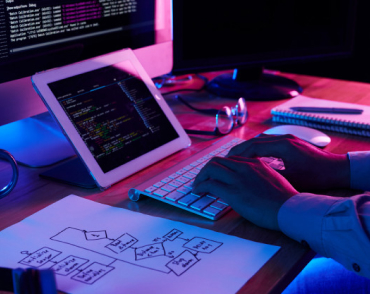
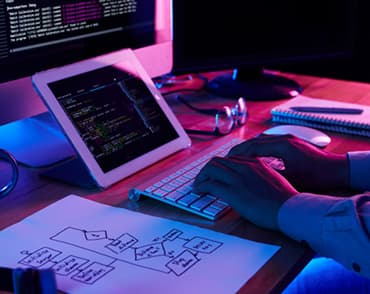
оптимізувала зображення та добавила тіні

diff --git a/portfolio.html b/portfolio.html
@@ -63,7 +63,7 @@
     <ul class="carts-list">
         <li class="carts-item">
 
-            <img src="./image/img.png" alt="ноутбук" width="370" height="294" class="carts-image">
+            <img src="./image/Img-laptop.jpg" alt="ноутбук" width="370" height="294" class="carts-image">
             <div class="carts-block">
             <h2  class="main-title">Технокряк</h2>
             <p class="portfolio-text">Веб-сайт</p>
@@ -71,7 +71,7 @@
         </li>
         <li class="carts-item">
      
-            <img src="./image/img(1).png" alt="баскетболісти" width="370" height="294"  class="carts-image">
+            <img src="./image/Basketball.jpg" alt="баскетболісти" width="370" height="294"  class="carts-image">
             <div class="carts-block">
             <h2  class="main-title">Постер New Orlean vs Golden Star</h2>
             <p class="portfolio-text">Дизайн</p>
@@ -79,7 +79,7 @@
         </li>
         <li class="carts-item">
    
-            <img src="./image/img(2).png" alt="логотип ресторану" width="370" height="294"  class="carts-image">
+            <img src="./image/Restaurant-logo.jpg" alt="логотип ресторану" width="370" height="294"  class="carts-image">
             <div class="carts-block">
             <h2  class="main-title">Ресторан Seafood</h2>
             <p class="portfolio-text">Додаток</p>
@@ -87,14 +87,14 @@
         </li>
         <li class="carts-item">
             
-            <img src="./image/img(3).png" alt="навушники" width="370" height="294"  class="carts-image">
+            <img src="./image/Headphones.jpg" alt="навушники" width="370" height="294"  class="carts-image">
             <div class="carts-block">
             <h2  class="main-title">Проєкт Prime</h2>
             <p class="portfolio-text">Маркетинг</p>
         </div>
         </li>
         <li class="carts-item">
-            <img src="./image/img(4).png" alt="коробки" width="370" height="294"  class="carts-image">
+            <img src="./image/Boxes.jpg" alt="коробки" width="370" height="294"  class="carts-image">
             <div class="carts-block">
             <h2  class="main-title">Проєкт Boxes</h2>
             <p class="portfolio-text">Додаток</p>
@@ -102,7 +102,7 @@
         </li>
         <li class="carts-item">
            
-            <img src="./image/img(5).png" alt="комп'ютер" width="370" height="294"  class="carts-image">
+            <img src="./image/Computer.jpg" alt="комп'ютер" width="370" height="294"  class="carts-image">
             <div class="carts-block">
             <h2  class="main-title">Inspiration has no Borders</h2>
             <p class="portfolio-text">Веб-сайт</p>
@@ -110,7 +110,7 @@
         </li>
         <li class="carts-item">
           
-            <img src="./image/img(6).png" alt="книга" width="370" height="294"  class="carts-image">
+            <img src="./image/Book.jpg" alt="книга" width="370" height="294"  class="carts-image">
             <div class="carts-block">
             <h2  class="main-title">Видання Limited Edition</h2>
             <p class="portfolio-text">Дизайн</p>
@@ -118,7 +118,7 @@
         </li>
         <li class="carts-item">
            
-            <img src="./image/img(7).png" alt="етикетка" width="370" height="294"  class="carts-image">
+            <img src="./image/Label.jpg" alt="етикетка" width="370" height="294"  class="carts-image">
             <div class="carts-block">
             <h2  class="main-title">Проєкт LAB</h2>
            <p class="portfolio-text">Маркетинг</p>
@@ -126,7 +126,7 @@
         </li>
         <li class="carts-item">
           
-           <img src="./image/img(8).png" alt="робота на ноутбуці" width="370" height="294"  class="carts-image">
+           <img src="./image/Robot.png" alt="робота на ноутбуці" width="370" height="294"  class="carts-image">
            <div class="carts-block">
            <h2 class="main-title">Growing Business</h2>
            <p class="portfolio-text">Додаток</p>

diff --git a/index.html b/index.html
@@ -71,13 +71,13 @@
     <div class="container">
     <ul class="servises-list">
         <li class="servises-item">
-            <img class="image" src="./image/box1.jpg" alt="іт спеціалист" width="370" height="294">
+            <img class="image" src="./image/Box1.jpg" alt="іт спеціалист" width="370" height="294">
         </li>
         <li class="servises-item">
-            <img class="image" src="./image/box2.png" alt="веб дизайнер" width="370" height="294">
+            <img class="image" src="./image/Box2.jpg" alt="веб дизайнер" width="370" height="294">
         </li>
         <li class="servises-item">
-            <img class="image" src="./image/box3.png" alt="графический дизанер" width="370" height="294">
+            <img class="image" src="./image/Box3.jpg" alt="графический дизанер" width="370" height="294">
         </li>
 </ul>
     </div>
@@ -88,28 +88,28 @@
 <ul class="team-list">
     <li class="team-item">
         <div class="team-card">
-        <img class="staff-photor" src="./image/img(5).jpg" alt="Ігор Дем'яненко" width="270" height="260">
+        <img class="staff-photor" src="./image/Img1.jpg" alt="Ігор Дем'яненко" width="270" height="260">
         <h3 class="name">Ігор Дем'яненко</h3>
         <p class="profession">Product Designer</p>
     </div>
     </li>
     <li class="team-item">
         <div class="team-card">
-        <img class="staff-photor" src="./image/img(6).jpg" alt="Ольга Рєпіна" width="270" height="260">
+        <img class="staff-photor" src="./image/Img2.jpg" alt="Ольга Рєпіна" width="270" height="260">
         <h3 class="name" >Ольга Рєпіна</h3>
         <p class="profession">Frontend Developer</p>
     </div>
     </li>
     <li class="team-item">
         <div class="team-card">
-        <img class="staff-photor" src="./image/img(7).jpg" alt="Микола Тарасов" width="270" height="260">
+        <img class="staff-photor" src="./image/Img3.jpg" alt="Микола Тарасов" width="270" height="260">
         <h3 class="name">Микола Тарасов</h3>
         <p class="profession">Marketing</p>
     </div>
     </li>
     <li class="team-item">
         <div class="team-card">
-        <img class="staff-photor" src="./image/img(8).jpg" alt="Михайло Єрмаков" width="270" height="260">
+        <img class="staff-photor" src="./image/Img4.jpg" alt="Михайло Єрмаков" width="270" height="260">
         <h3 class="name">Михайло Єрмаков</h3>
         <p class="profession">UI Designer</p>
         </div>

diff --git a/css/styles.css b/css/styles.css
@@ -150,19 +150,19 @@ a:hover {
 }
 
 .section1::before {
-  background-image: url("../image/satelliteDish.png");
+  background-image: url("../image/SatelliteDish.png");
 }
 
 .section2::before {
-  background-image: url("../image/watch.png");
+  background-image: url("../image/Watch.png");
 }
 
 .section3::before {
-  background-image: url("../image/laptop.png");
+  background-image: url("../image/Laptop.png");
 }
 
 .section4::before {
-  background-image: url("../image/astronaut.png");
+  background-image: url("../image/Astronaut.png");
 }
 
 .text-button {
@@ -252,6 +252,8 @@ a:hover {
   padding: 0;
   align-items: center;
   border-radius: 0 0 4px 4px;
+  box-shadow: 0 2px 1px 0 rgba(0, 0, 0, 0.2), 0 1px 1px 0 rgba(0, 0, 0, 0.14), 0 1px 3px 0 rgba(0, 0, 0, 0.12);
+  background: #fff;
 }
 /*///////////////////////////////////FOOTER///////////////////////////////*/
 .footer {
@@ -401,7 +403,10 @@ section[id] {
   display: flex;
   flex-direction: column;
   box-sizing: border-box;
-
+}
+.carts-item:hover {
+  box-shadow: 1px 4px 6px 0 rgba(0, 0, 0, 0.16), 0 4px 4px 0 rgba(0, 0, 0, 0.06), 0 1px 1px 0 rgba(0, 0, 0, 0.12);
+  background: #fff;
 }
 .main-title {
   margin-top: 20px;
